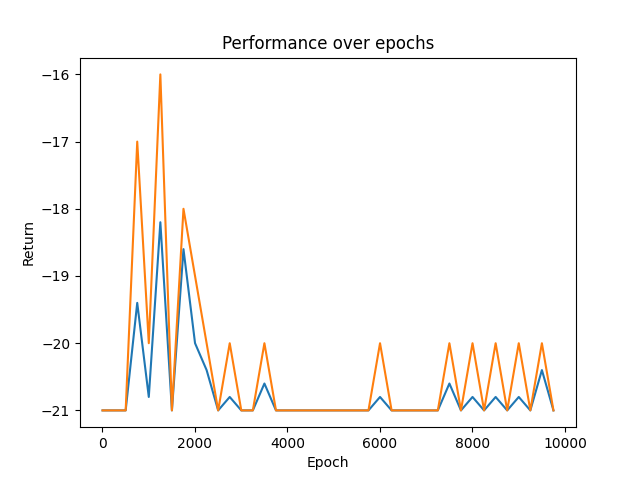
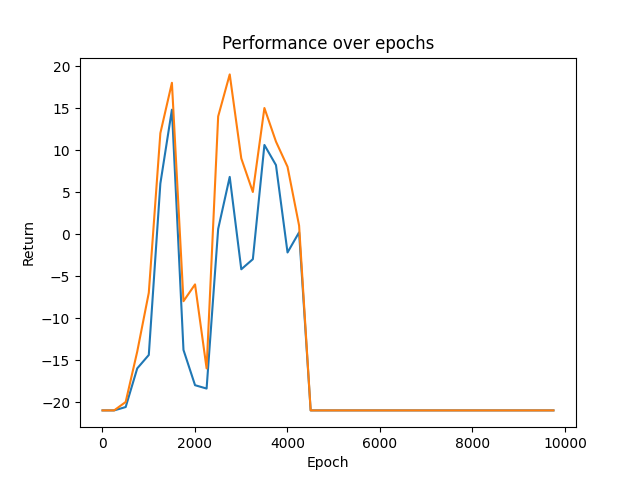
version with AI agent beating computer for first time

diff --git a/train.py b/train.py
@@ -52,14 +52,14 @@ if __name__ == '__main__':
 
     # Initialize environment and config.
     env_config = ENV_CONFIGS[args.env]
-    
+
     if args.env == 'Pong-v5':
         env = gym.make('ALE/Pong-v5')
         env = AtariPreprocessing(env, screen_size=84, grayscale_obs=True, frame_skip=1, noop_max=30)
         env = gym.wrappers.FrameStack(env, num_stack=env_config['observation_stack_size'])
     else:
         env = gym.make(args.env)
-    
+
 
     # Initialize deep Q-networks.
     if args.env == 'Pong-v5':

diff --git a/utils.py b/utils.py
@@ -10,6 +10,7 @@ def preprocess(obs, env):
     elif env in ['MountainCar-v0']:
         return torch.tensor(obs, device=device).float()
     elif env in ['Pong-v5']:
+        obs = np.array(obs)
         return torch.tensor(obs, device=device).float()
     else:
         raise ValueError('Please add necessary observation preprocessing instructions to preprocess() in utils.py.')

diff --git a/config.py b/config.py
@@ -55,9 +55,9 @@ AtariPong = {
     'target_update_frequency': 100,
     'train_frequency': 4,
     'gamma': 0.99,
-    'lr': 1e-4,
+    'lr': 0.00025,
     'eps_start': 1.0,
-    'eps_end': 0.01,
+    'eps_end': 0.1,
     'anneal_length': 10**6,
     'n_actions': 3,
 }
